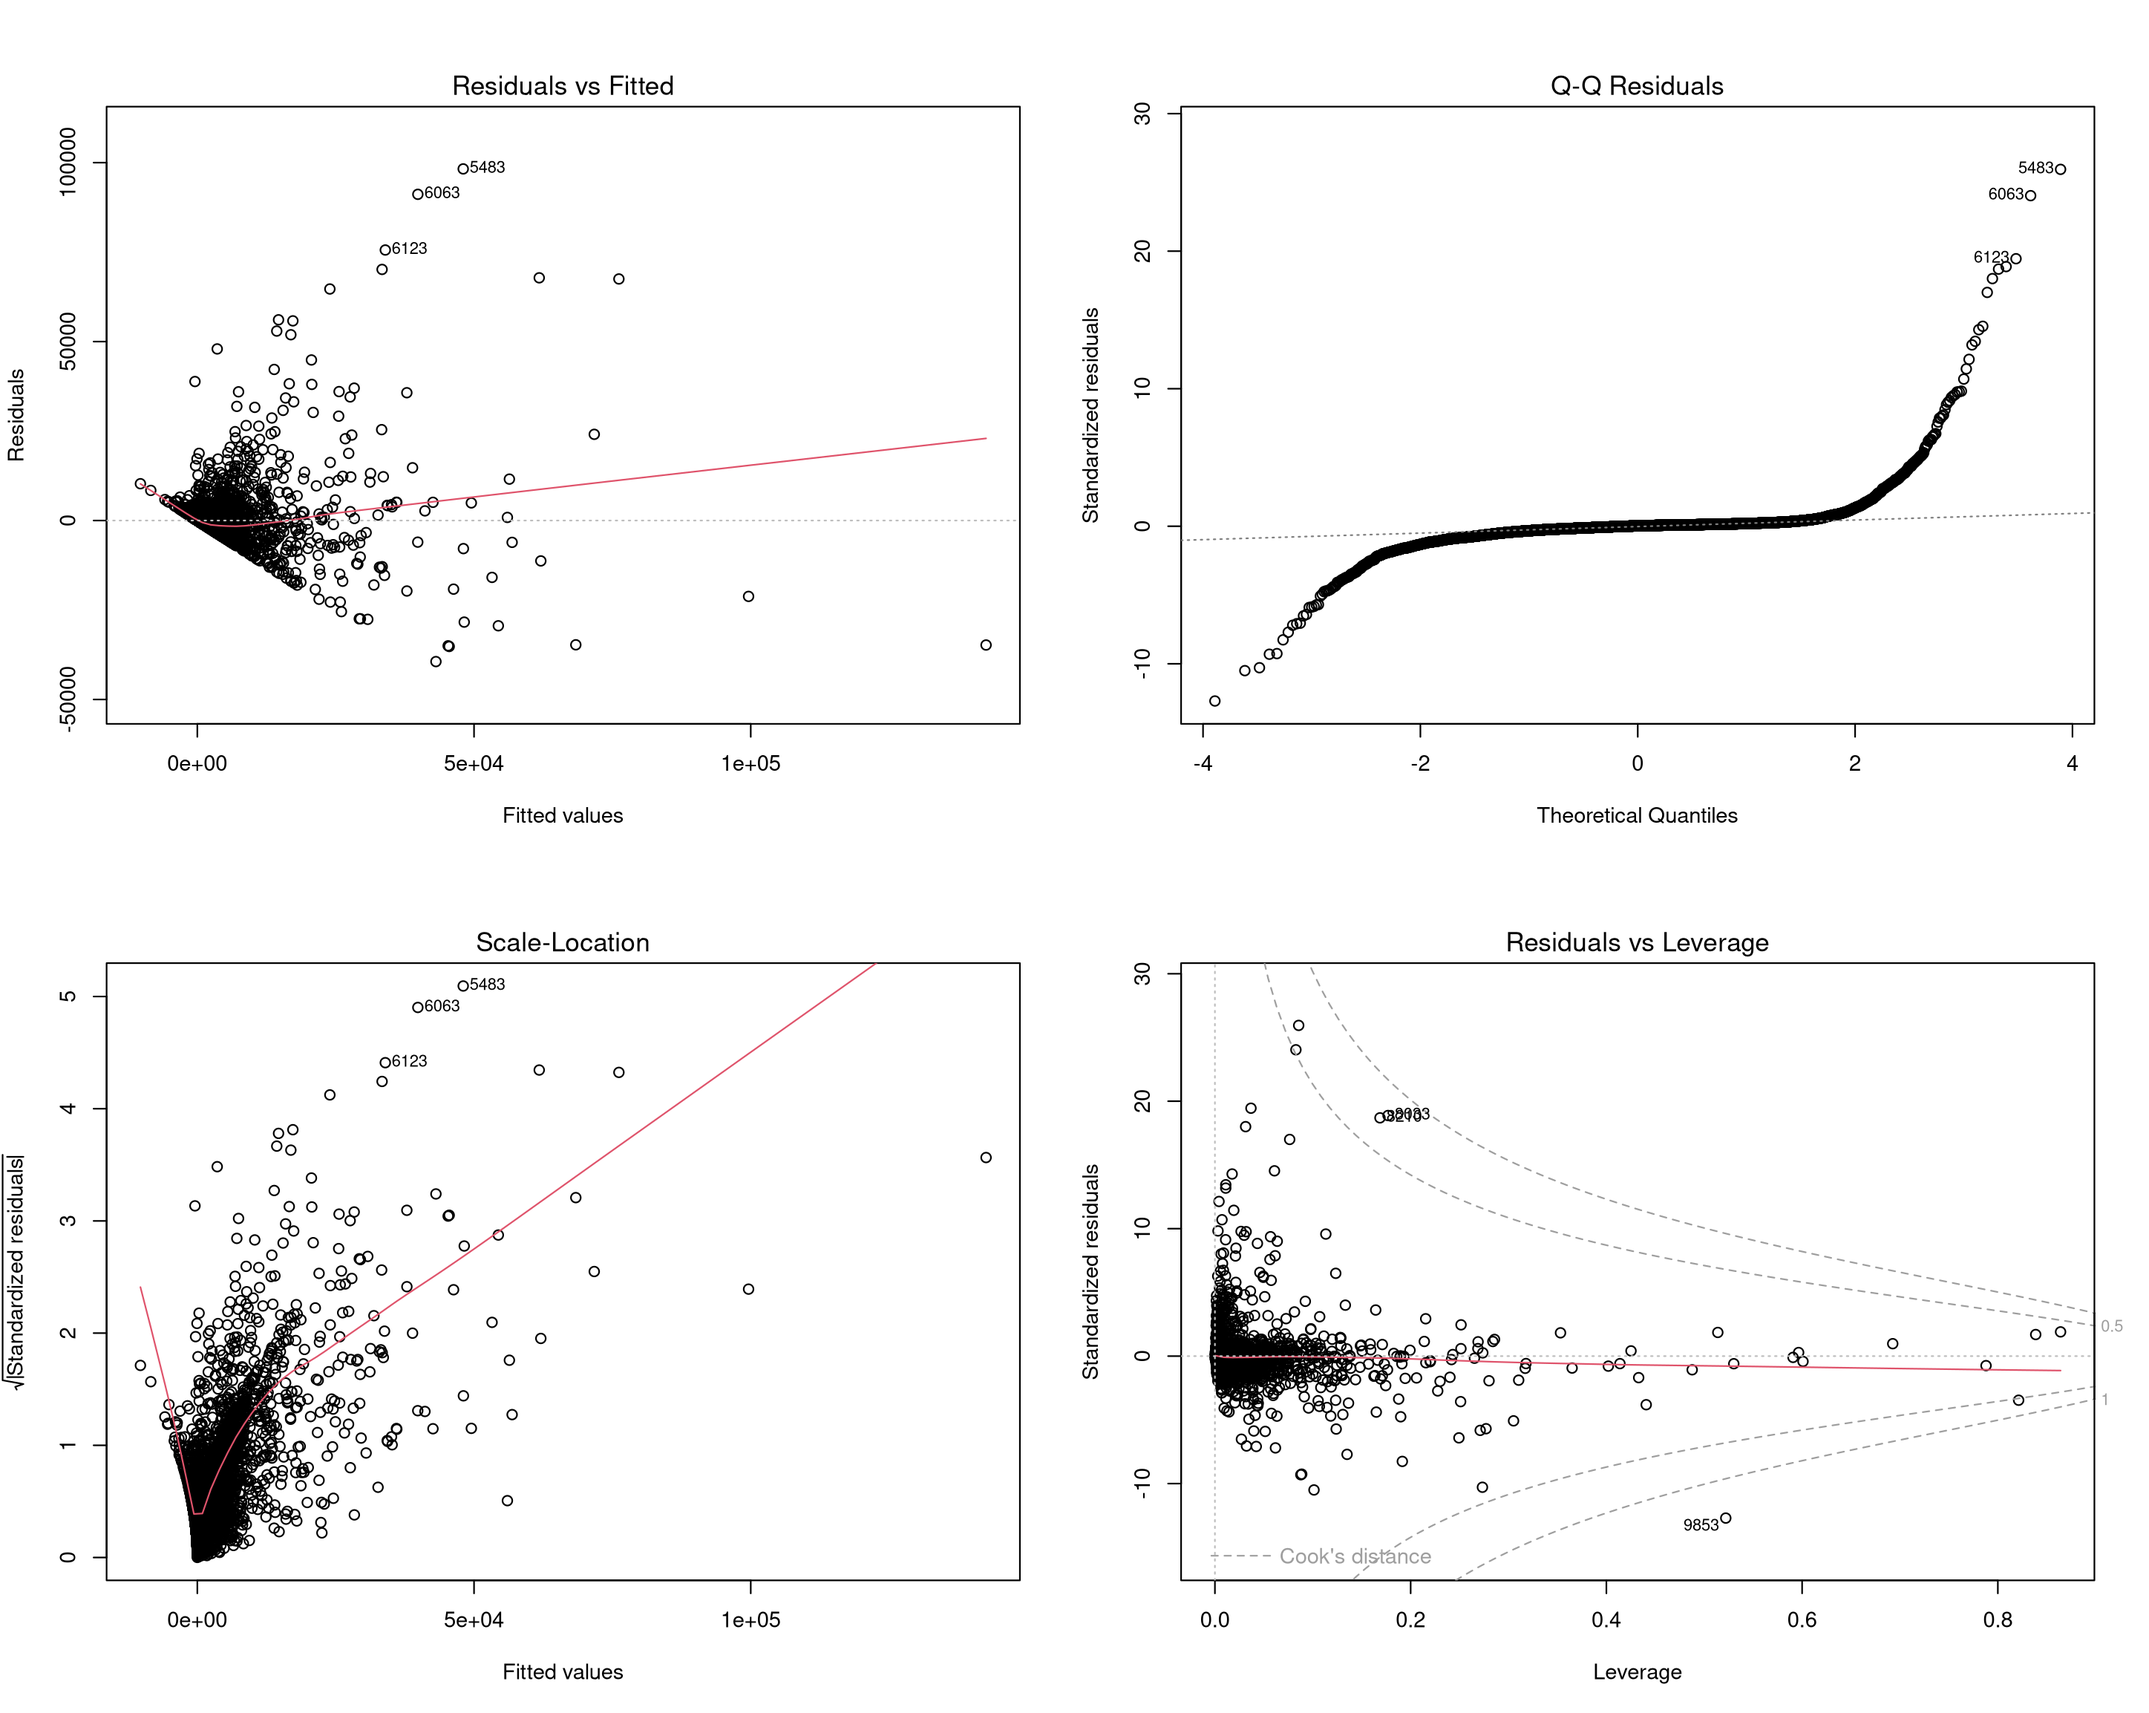
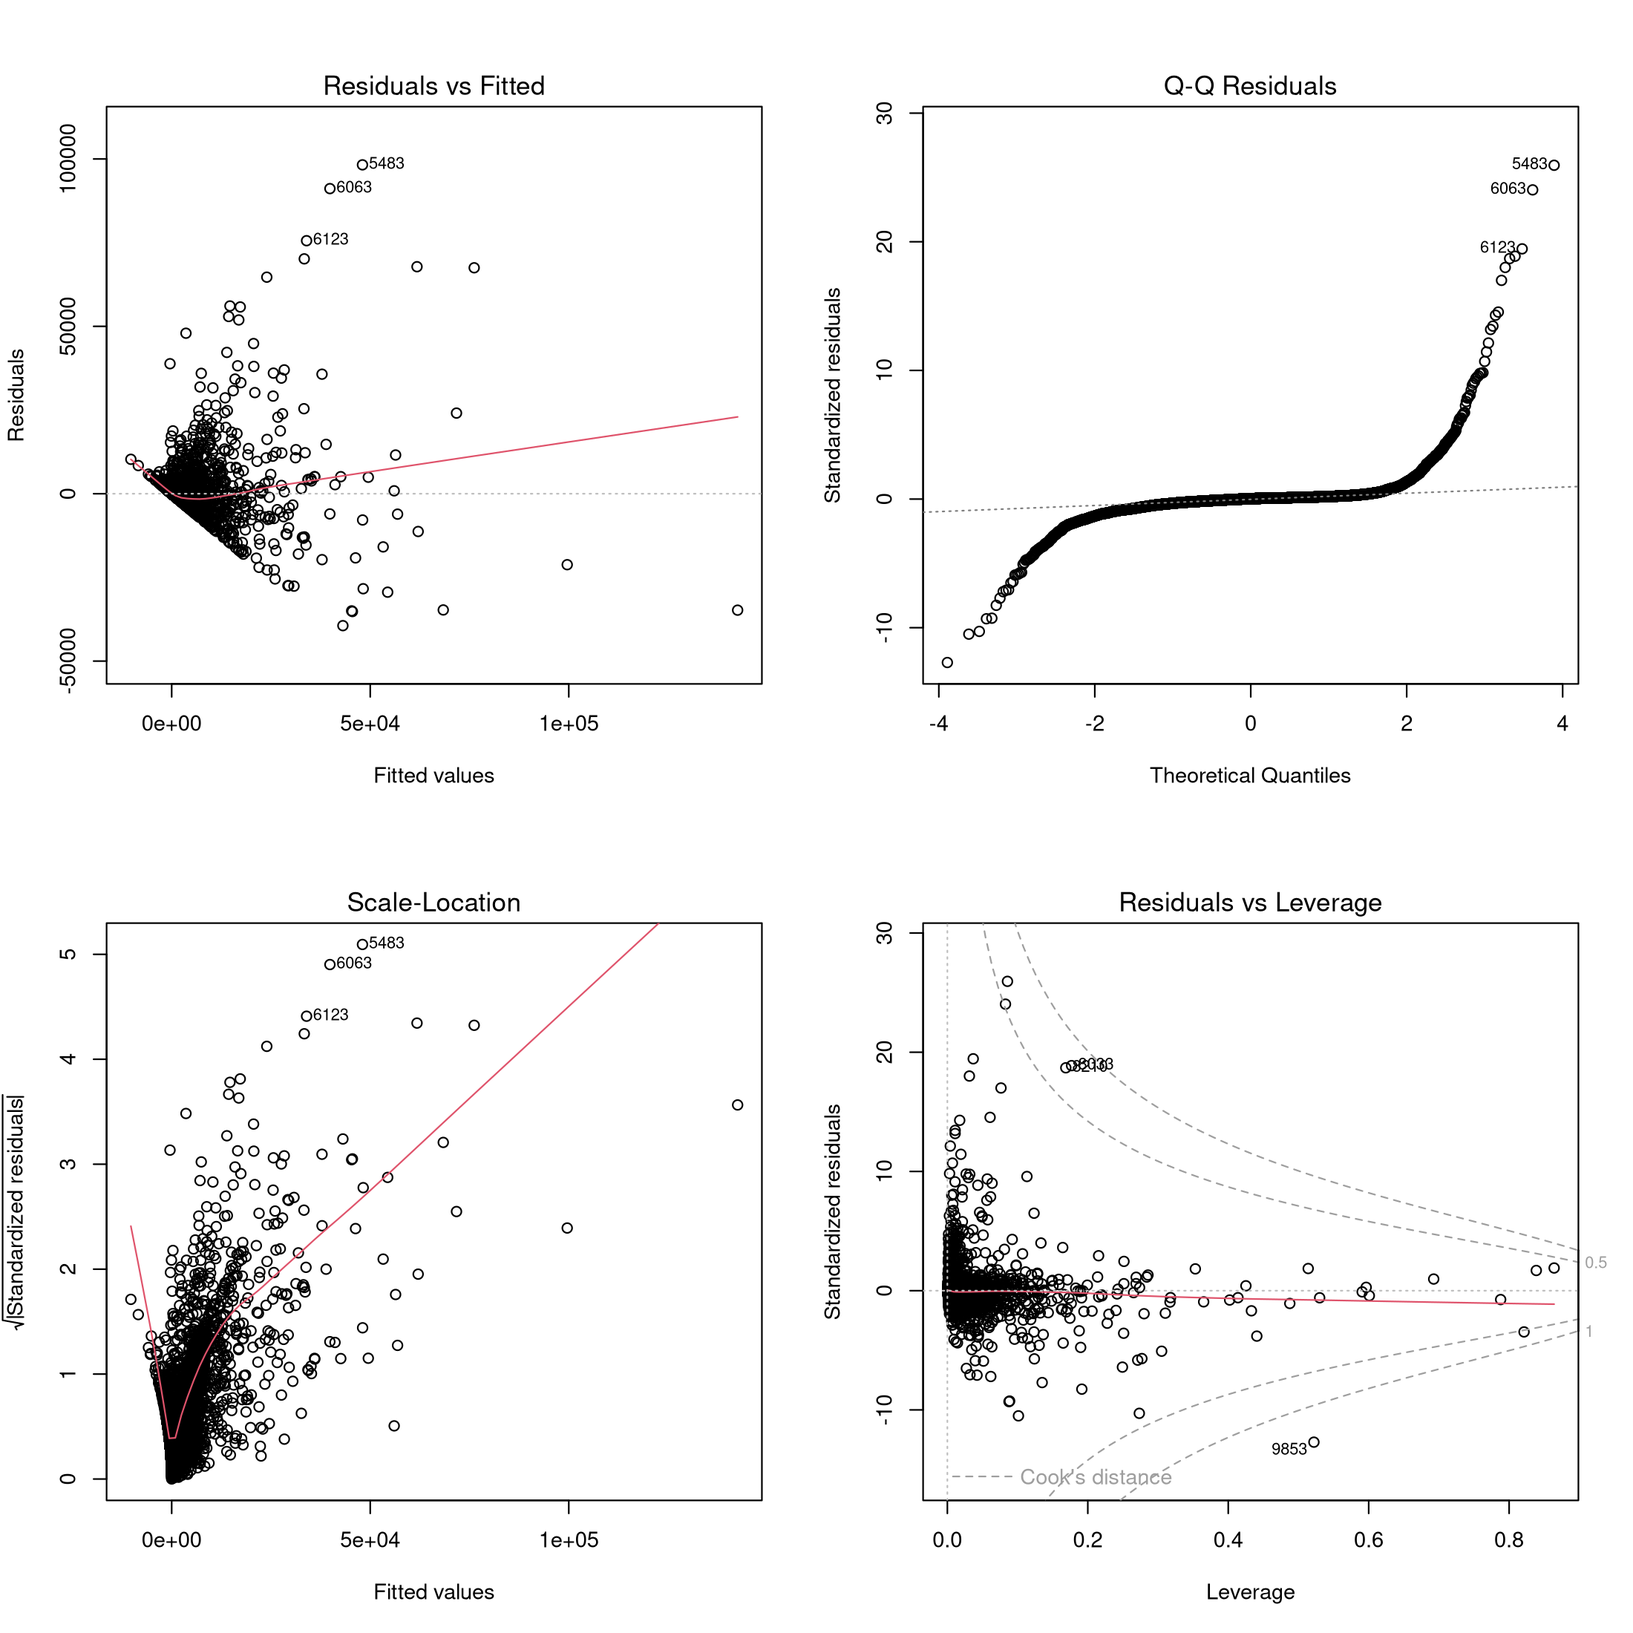
ln insigths wip

diff --git a/PhoneUserChallenge/Phone_report.md b/PhoneUserChallenge/Phone_report.md
@@ -113,7 +113,7 @@ Let's try to be more aggressive and cut off the top 10%.
 3 M            3445       130747836        37953.
 ```
 
-Here we see an even higher 10% increase in call time fro men.
+Here we see an even higher 10% increase in call time for men.
 Lastly, we could try to reduce the impact of outliers by compressing the data logarithmically instead than cutting off the top 1%. 
 
 ```{bash}
@@ -125,9 +125,6 @@ Lastly, we could try to reduce the impact of outliers by compressing the data lo
 ```
 
 We still see an increase in call times for men even on compressed values. We can conclude that, for our customers, men tend to call for longer. 
-
-Then, it would be interesting to see how much age factors in call times.
-
 We can do something similar for plan and paying method. We will cut off the top 1%.
 
 ```{bash}
@@ -318,6 +315,43 @@ q09.ch.cc                              -2.097 0.036019 *
 ```
 
 We can see that, for the most part, relevant features are the one related to monthly calls. It is interesting to notice that the second month does not seem to hold much weight, even thought it presents a similar amount of call data compared to the first.
+
+Log transforming the target yield better results, with a general normalization of the values. 
+
+![](./4plots_ln_log.png)
+
+Here follows the features that [TODO]
+
+```{bash}
+                                      Pr(>|t|)    
+(Intercept)                            < 2e-16 ***
+tariff.plan                            < 2e-16 ***
+payment.methodCarta di Credito        0.007256 ** 
+payment.methodDomiciliazione Bancaria 0.001023 ** 
+sexF                                  0.000623 ***
+sexM                                  6.81e-09 ***
+age                                    < 2e-16 ***
+activation.channel                    4.42e-07 ***
+vas1Y                                 2.43e-10 ***
+q01.out.ch.peak                       0.004972 ** 
+q01.in.dur.tot                        0.009498 ** 
+q03.out.ch.peak                       0.016320 *   
+q04.out.dur.peak                      0.002052 ** 
+q04.out.val.peak                      0.012237 *  
+q04.out.ch.offpeak                    0.031593 *  
+q04.ch.cc                             0.036098 *   
+q05.in.ch.tot                         0.041127 *  
+q06.out.val.offpeak                   0.032902 *  
+q07.out.dur.offpeak                   0.014165 *  
+q07.out.val.offpeak                   0.004209 ** 
+q08.out.ch.peak                       0.009375 ** 
+q09.out.ch.peak                        < 2e-16 ***
+q09.out.val.peak                      0.000828 ***
+q09.out.ch.offpeak                    3.27e-08 ***
+q09.in.ch.tot                         0.000294 ***
+q09.ch.sms                            0.001544 ** 
+```
+
 
 ## Principal Components
 
